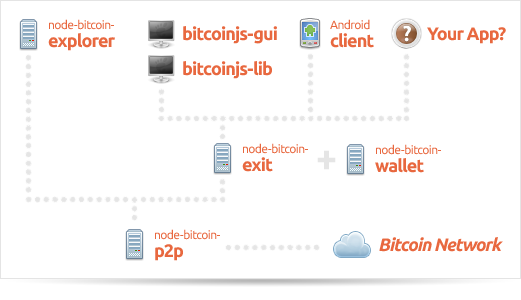
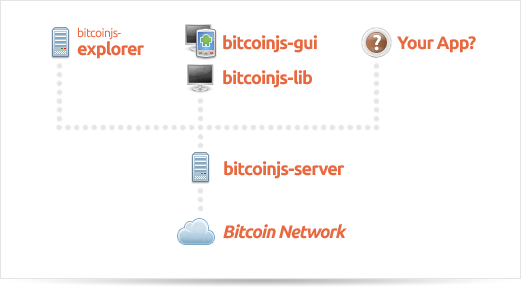
Added blog and about sections to website.

diff --git a/_layouts/master.html b/_layouts/master.html
@@ -9,7 +9,7 @@
 <!-- Always force latest IE rendering engine (even in intranet) & Chrome Frame  -->
 <meta http-equiv="X-UA-Compatible" content="IE=edge,chrome=1">
 <title>{{ page.title }} - BitcoinJS</title>
-<link rel="stylesheet" href="fonts/Ubuntu.css" type="text/css" media="screen" />
+<link rel="stylesheet" href="/fonts/Ubuntu.css" type="text/css" media="screen" />
 <meta name="description" content="">
 <meta name="author" content="">
 
@@ -18,15 +18,15 @@
 <link rel="apple-touch-icon" href="/apple-touch-icon.png">
 
 <!-- CSS - Setup -->
-<link href="css/style.css" rel="stylesheet" type="text/css" />
-<link href="css/base.css" rel="stylesheet" type="text/css" />
-<link href="css/grid.css" rel="stylesheet" type="text/css" />
+<link href="/css/style.css" rel="stylesheet" type="text/css" />
+<link href="/css/base.css" rel="stylesheet" type="text/css" />
+<link href="/css/grid.css" rel="stylesheet" type="text/css" />
 <!-- CSS - Theme -->
-<link id="theme" href="css/themes/light.css" rel="stylesheet" type="text/css" />
-<link id="color" href="css/themes/blue.css" rel="stylesheet" type="text/css" />
+<link id="theme" href="/css/themes/light.css" rel="stylesheet" type="text/css" />
+<link id="color" href="/css/themes/blue.css" rel="stylesheet" type="text/css" />
 
 <!-- All JavaScript at the bottom, except for Modernizr which enables HTML5 elements & feature detects -->
-<script src="js/modernizr-1.5.min.js"></script>
+<script src="/js/modernizr-1.5.min.js"></script>
 </head>
 
 <!--[if IE 7 ]>    <body class="ie7"> <![endif]-->
@@ -41,11 +41,17 @@
 <!-- start header -->
   <header> 
     <!-- logo -->
-    <h1 id="logo"><a href="">BitcoinJS</a></h1>
+    <h1 id="logo"><a href="/">BitcoinJS</a></h1>
     <!-- nav -->
     <nav>
 <ul id="nav">
-	<li class="current"><a href="">Home</a></li>
+{% for link in site.navigation %}
+  {% assign current = nil %}
+  {% if page.url == link.url or page.layout == link.layout %}
+    {% assign current = 'current' %}
+  {% endif %}
+	<li class="{% if forloop.first %}first{% endif %} {{ current }} {% if forloop.last %}last{% endif %}"><a href="{% if link.url == "/index.html" %}/{% else %}{{ link.url }}{% endif %}">{{ link.text }}</a></li>
+  {% endfor %}
 </ul>
 <br class="cl" />
     </nav>
@@ -60,19 +66,19 @@
   <!-- footer Start -->
   <footer>
     <ul class="footer-nav">
-      <li><a href="index.html">Home</a></li>
+      <li><a href="/">Home</a></li>
     </ul>
     <p>Copyright &copy; 2010, <a href="http://www.bitcoinjs.org">BitcoinJS Project</a>.</p>
     <br class="cl" />
   </footer>
   <!-- footer end --> 
 
-  <script src="js/jquery-1.4.2.min.js" type="text/javascript"></script>
-  <script src="js/jquery.tools.min.js" type="text/javascript"></script>
-  <script src="js/jquery.lightbox-0.5.min.js" type="text/javascript"></script>
-  <script src="js/jquery.form.js" type="text/javascript"></script>
-  <script src="js/jquery.tipsy.js" type="text/javascript"></script>
-  <script src="js/functions.js" type="text/javascript"></script>
+  <script src="/js/jquery-1.4.2.min.js" type="text/javascript"></script>
+  <script src="/js/jquery.tools.min.js" type="text/javascript"></script>
+  <script src="/js/jquery.lightbox-0.5.min.js" type="text/javascript"></script>
+  <script src="/js/jquery.form.js" type="text/javascript"></script>
+  <script src="/js/jquery.tipsy.js" type="text/javascript"></script>
+  <script src="/js/functions.js" type="text/javascript"></script>
   <!--[if lt IE 7 ]>
     <script src="js/dd_belatedpng.js"></script>
   <![endif]--> 

diff --git a/about.html b/about.html
@@ -1,0 +1,43 @@
+---
+layout: generic
+title: About BitcoinJS
+---
+
+<!-- page title -->
+<h2 class="ribbon blue full">About<span>BitcoinJS at a glance</span> </h2>
+<div class="triangle-ribbon blue"></div>
+<br class="cl" />
+<!-- page content -->
+<div id="page-content" class="two-col container_12">
+  <ul class="breadcrumbs">
+    <li><a href="/">BitcoinJS</a> &raquo;</li>
+    <li>About</li>
+  </ul>
+  <div class="grid_12">
+    <h3>Our Philosophy</h3>
+    <p>BitcoinJS is built around the advantages of the modern JavaScript stack. We feel that the requirements of Bitcoin clients and servers match very well the functionality offered by JavaScript-based environments.</p>
+  </div>
+  <ul class="services-list">
+    <li> <span class="process">1</span>
+      <p><strong>Security</strong> - In the browser, JavaScript had to withstand almost two decades worth of attacks and its virtual machines are now some of the most battle-hardened and reviewed pieces of software available.</p>
+    </li>
+    <li> <span class="process">2</span>
+      <p><strong>Performance</strong> - Thanks to an arms race between Google, Mozilla, Microsoft and Apple, JavaScript is now one of the fastest interpreted languages available. BitcoinJS uses native extensions in Node.js and Phonegap for a further boost.</p>
+    </li>
+    <li> <span class="process">3</span>
+      <p><strong>Portability</strong> - The HTML5 platform is one of the most widely supported environments with support on almost any desktop and mobile device. Therefore BitcoinJS can provide a consistent set of features for users on all platforms.</p>
+    </li>
+    <li> <span class="process">4</span>
+      <p><strong>Usability</strong> - BitcoinJS can run in the browser allowing an unparalleled user experience for first time users. There is no other technology that allows users to try Bitcoin so quickly and risk-free.</p>
+    </li>
+  </ul>
+  <br class="cl" />
+  <br />
+  <div class="grid_12">
+    <h3>Status</h3>
+    <p>BitcoinJS is still a young project, but we lead the race among alternative implementations with a complete script interpreter, mining support, JSON-RPC support and a client/GUI implementation. Several online wallet providers already use BitcoinJS in production.</p>
+    <p>If you'd like to keep up with news on the project, <a href="http://twitter.com/bitcoinjs">follow us on Twitter</a> or <a href="http://groups.google.com/group/bitcoinjs">subscribe to the developer mailing list</a>.
+  </div>
+  <br class="cl" />
+  <br />
+</div>

diff --git a/_layouts/generic.html b/_layouts/generic.html
@@ -1,0 +1,36 @@
+---
+layout: master
+---
+
+{{ content }}
+
+<!-- page sidebar -->
+<aside>
+  <h3>Latest Blog Posts</h3>
+  <ul class="sidebar-latestblog">
+    {% for post in site.categories.blog %}
+    <li><img height="50" width="50" class="inlinepic" src="{{ post.thumb }}" alt=""><a href="{{ post.url }}">{{ post.title }}</a>
+      <time>{{ post.date | date: "%e" | ordinalize }} {{ post.date | date: '%B %Y' }}</time>
+      <br class="cl" />
+    </li>
+    {% endfor %}
+  </ul>
+  <h3>Twitter Feed</h3>
+  <ul id="twitter_update_list">
+    <li></li>
+  </ul>
+  <script type="text/javascript" src="http://twitter.com/javascripts/blogger.js"></script> 
+  <script type="text/javascript" src="http://twitter.com/statuses/user_timeline/bitcoinjs.json?callback=twitterCallback2&amp;count=4"></script> 
+  <br class="cl" />
+  <br />
+  <div class="block">
+    <h3>Socialise With Us</h3>
+    <ul class="social-list">
+      <li><a href="http://twitter.com/bitcoinjs"><img class="tooltip" src="/img/social/32/twitter.png" title="Follow us on Twitter" alt="Twitter" /></a></li>
+      <li><a href="http://groups.google.com/group/bitcoinjs"><img class="tooltip" src="/img/social/32/google.png" title="Join the mailing list" alt="Google Groups" /></a></li>
+      <li><a href="https://github.com/bitcoinjs"><img class="tooltip" src="/img/social/32/github.png" title="Watch our projects on Github" alt="Github" /></a></li>
+    </ul>
+  </div>
+</aside>
+<br class="cl" />
+<br class="cl" />

diff --git a/css/base.css b/css/base.css
@@ -330,6 +330,7 @@ header {
 	position:relative;
 	margin:25px 0 8px;
 	z-index: 2;
+	height: 55px;
 }
 footer {
 	padding:10px 0;
@@ -413,6 +414,34 @@ blockquote cite {
 	font-size:12px;
 	font-style:italic;
 }
+code, tt {
+    background-color: #F8F8F8;
+    border: 1px solid #EAEAEA;
+    border-radius: 3px 3px 3px 3px;
+    margin: 0 2px;
+    padding: 0 5px;
+    white-space: nowrap;
+}
+pre > code {
+    background: none repeat scroll 0 0 transparent;
+    border: medium none;
+    margin: 0;
+    padding: 0;
+    white-space: pre;
+}
+pre {
+    background-color: #F8F8F8;
+    border: 1px solid #CCCCCC;
+    border-radius: 3px 3px 3px 3px;
+    font-size: 13px;
+    line-height: 19px;
+    overflow: auto;
+    padding: 6px 10px;
+}
+pre code, pre tt {
+    background-color: transparent;
+    border: medium none;
+}
 /*//   About Page   //*/
 #teamlist {
 	margin:0;
@@ -464,7 +493,7 @@ blockquote cite {
 	font-weight:bold;
 	line-height:28px;
 	text-align:center;
-	margin:5px 20px 30px 0;
+	margin:5px 20px 90px 0;
 	float:left;
 }
 /*//   Portfolio Page   //*/
@@ -531,7 +560,7 @@ blockquote cite {
 	border-bottom:1px solid #d9d9d9;
 }
 /*////   - General Styling -   ////*/
-p {
+p, div > pre{
 	line-height:1.6;
 	margin-bottom:20px;
 }

diff --git a/blog.html b/blog.html
@@ -1,0 +1,24 @@
+---
+layout: generic
+title: About BitcoinJS
+---
+
+<!-- page title -->
+<h2 class="ribbon blue full">Blog<span>The latest news from the developers</span> </h2>
+<div class="triangle-ribbon blue"></div>
+<br class="cl" />
+<!-- page content -->
+<div id="page-content" class="two-col container_12">
+  <ul class="breadcrumbs">
+    <li><a href="/">BitcoinJS</a> &raquo;</li>
+    <li>Blog</li>
+  </ul>
+  {% for post in site.categories.blog %}
+  <div class="grid_12">
+    <h3><a href="{{ post.url }}">{{ post.title }}</a></h3>
+    {{ post.content }}
+  </div>
+  <br class="cl" />
+  <br />
+  {% endfor %}
+</div>

diff --git a/_layouts/post.html b/_layouts/post.html
@@ -1,0 +1,22 @@
+---
+layout: generic
+---
+
+<!-- page title -->
+<h2 class="ribbon blue full">Blog<span>The latest news from the developers</span> </h2>
+<div class="triangle-ribbon blue"></div>
+<br class="cl" />
+<!-- page content -->
+<div id="page-content" class="two-col container_12">
+  <ul class="breadcrumbs">
+    <li><a href="/">BitcoinJS</a> &raquo;</li>
+    <li><a href="/blog.html">Blog</a> &raquo;</li>
+    <li>{{ page.title }}
+  </ul>
+  <div class="grid_12">
+    <h3>{{ page.title }}</h3>
+    {{ content }}
+  </div>
+  <br class="cl" />
+  <br />
+</div>

diff --git a/blog/_posts/2012-02-04-simplifying-our-architecture.md b/blog/_posts/2012-02-04-simplifying-our-architecture.md
@@ -1,0 +1,35 @@
+---
+layout: post
+title: Simplifying Our Architecture
+thumb: /img/blog/2012-02-04-simplifying-our-architecture.jpg
+---
+
+We today made the step of refactoring BitcoinJS. We merged `node-bitcoin-p2p` and `node-bitcoin-exit` into a single project: `bitcoinjs-server`.
+
+By the same token, `node-bitcoin-explorer` will be renamed `bitcoinjs-explorer`.
+
+These two changes alone significantly simplify the BitcoinJS architecture. The changes to the architecture diagram illustrate how much simpler the new design is.
+
+#### Before
+
+![Alt text](/img/architecture/architecture_old.png)
+
+#### After
+
+![Alt text](/img/architecture/architecture.png)
+
+But the benefits aren't just theoretical. The installation of an exit node server has gotten much simpler and you can new use the full power of the `bitcoinjs` command line tool with the exit node server.
+
+To run an exit node, just install BitcoinJS Server and run:
+
+{% highlight sh %}
+# Install the necessary dependencies for running an exit node
+bitcoinjs setup exit
+
+# Run BitcoinJS with the exit node mod enabled
+bitcoinjs run -m exit
+{% endhighlight %}
+
+And that's it, no mandatory configuration, no more linking packages, configuring paths, etc.
+
+There are many cool things planned for BitcoinJS in the near future. Stay tuned!
